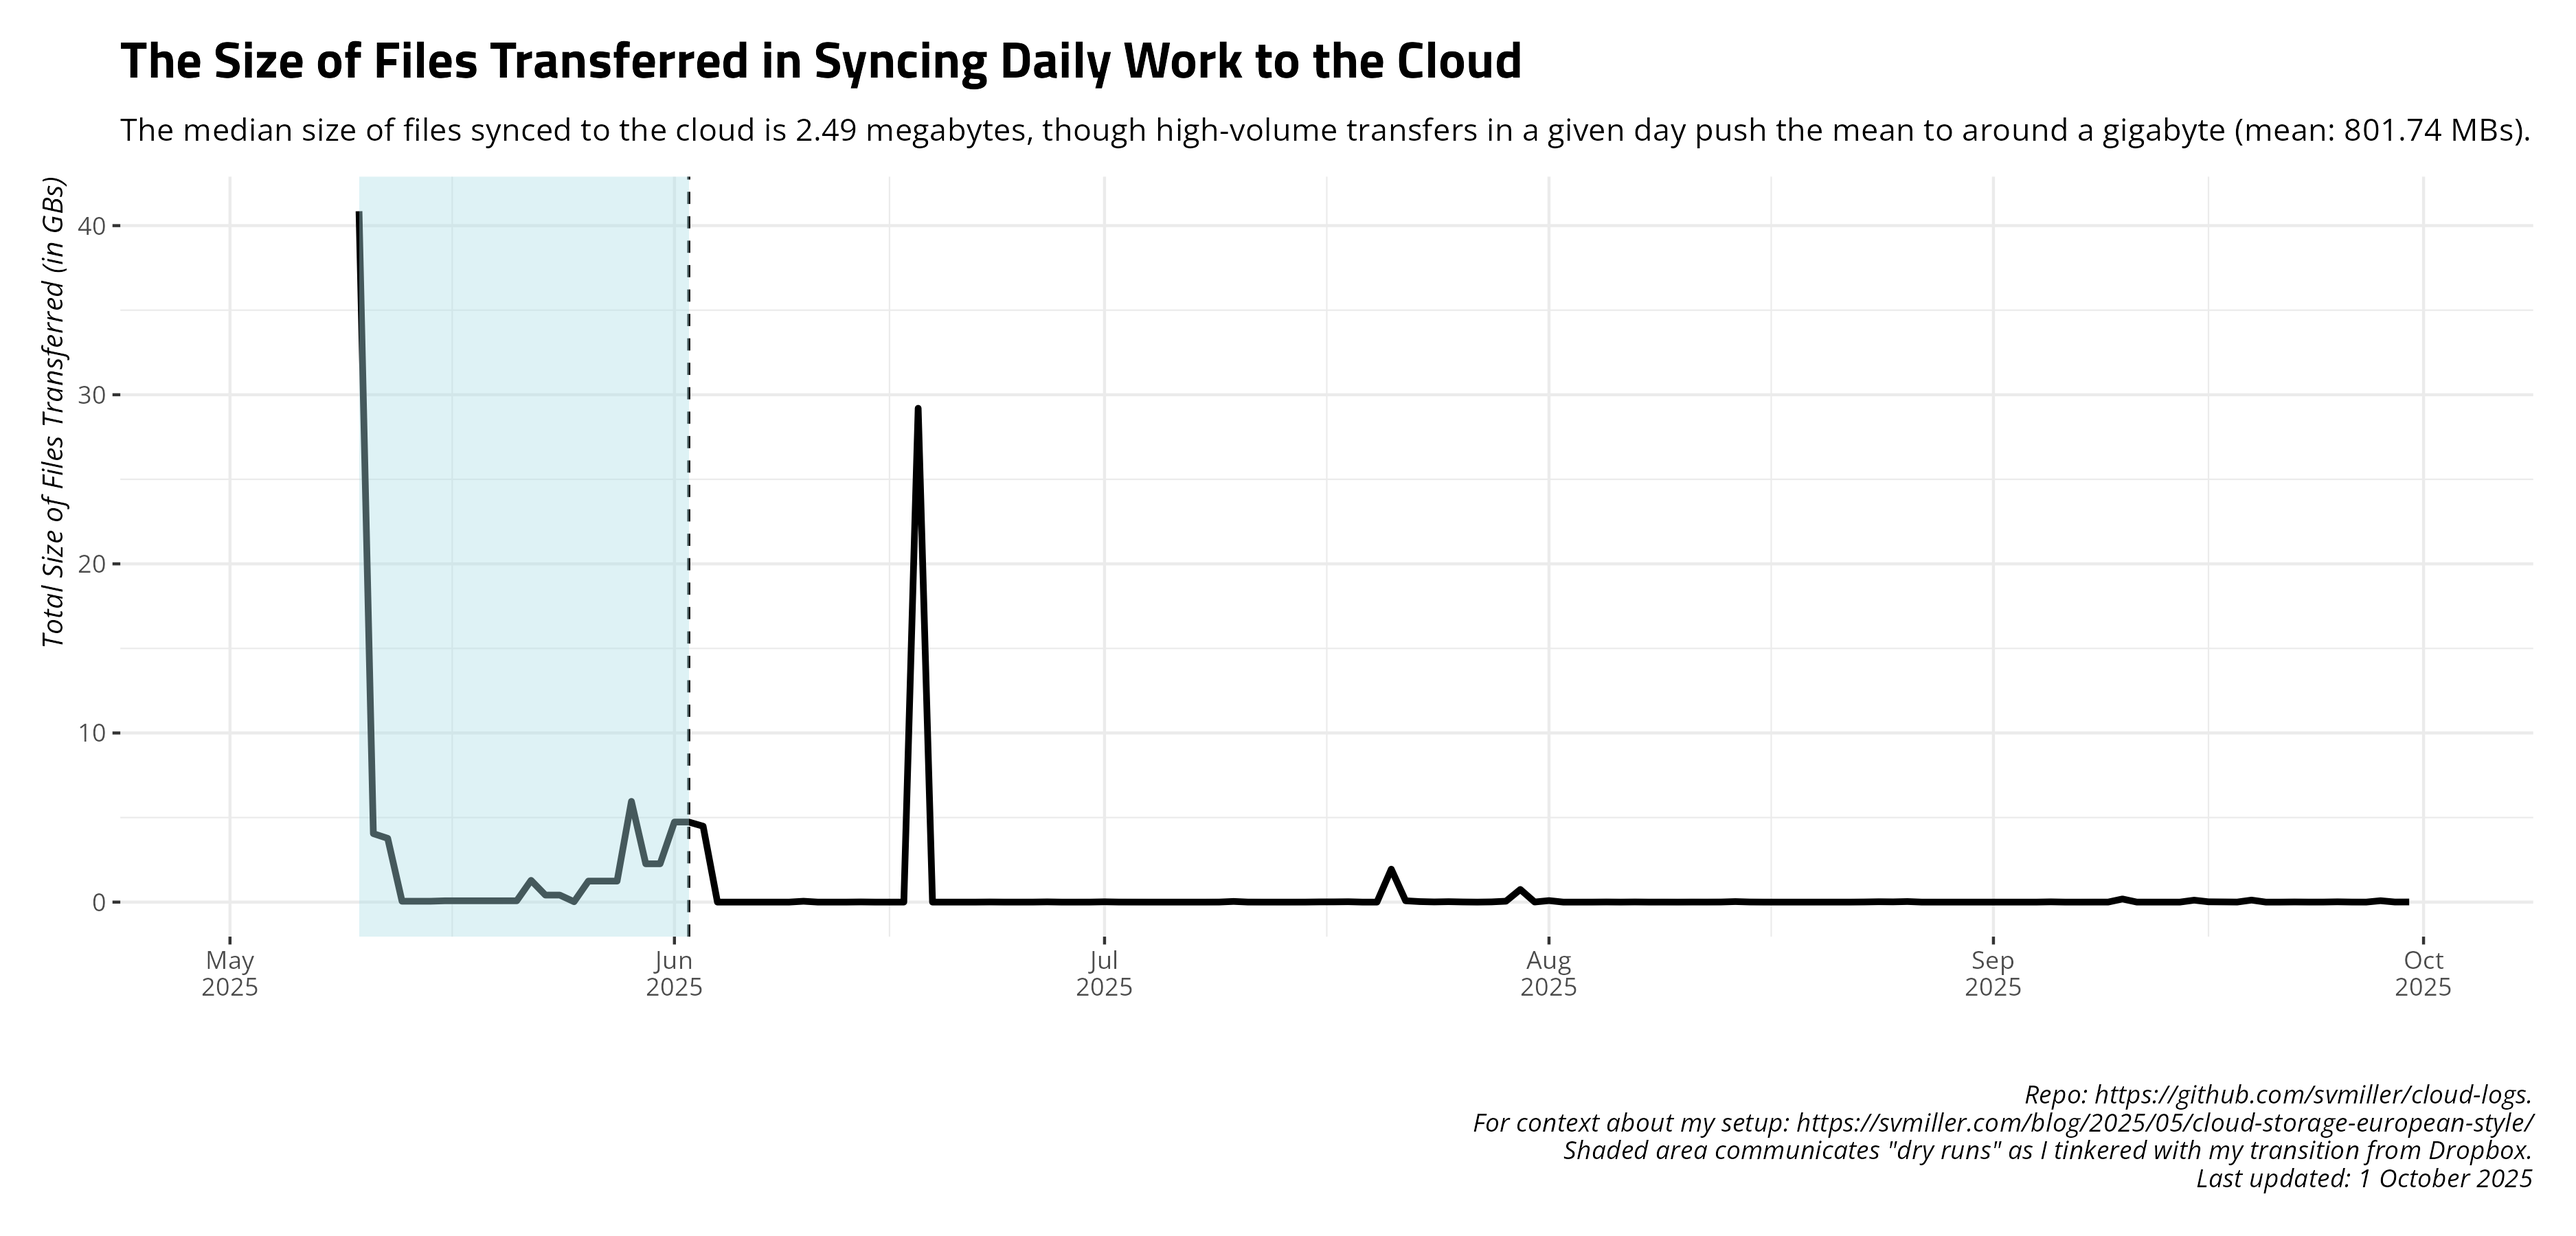
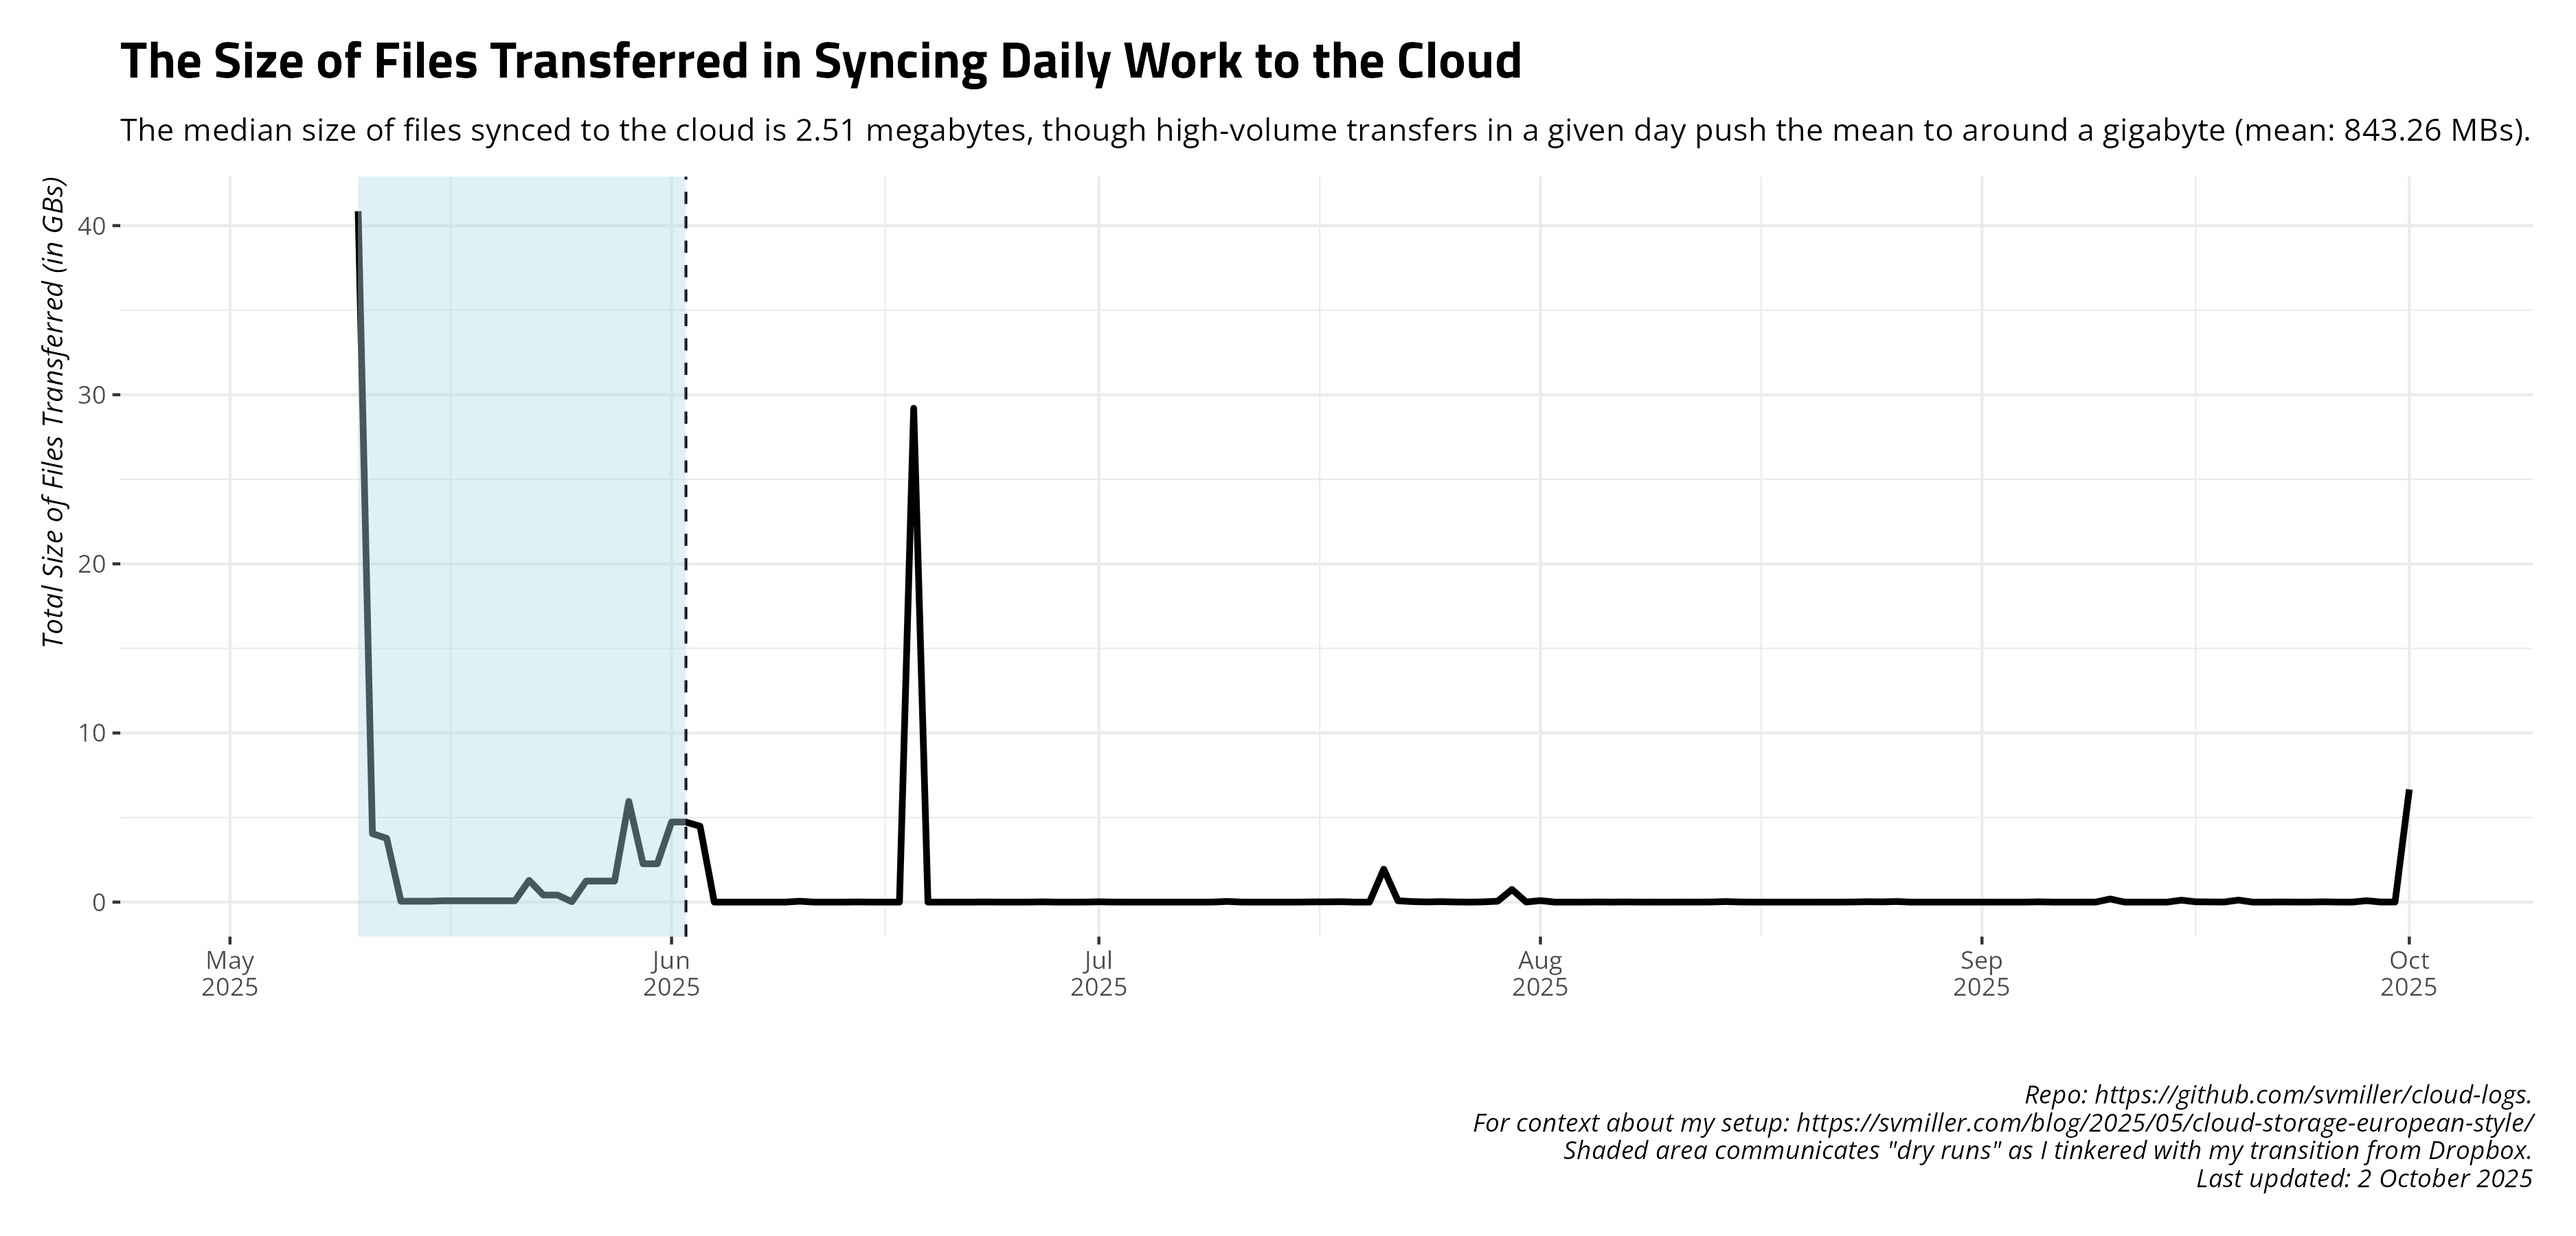
Date: 2025-10-02 09:00:14. Hi mom!

diff --git a/README.md b/README.md
@@ -27,17 +27,17 @@ and uploads to Github.
     #> # A tibble: 14 × 4
     #>    date       ftransfer stransfer   elapsed
     #>    <date>         <dbl> <chr>       <chr>  
-    #>  1 2025-09-17       384 10.375 MiB  4m40.4s
-    #>  2 2025-09-18       156 2.882 MiB   4m45.7s
-    #>  3 2025-09-19       145 121.392 MiB 4m37.2s
-    #>  4 2025-09-20        10 13.771 KiB  4m44.8s
-    #>  5 2025-09-21        27 314.652 KiB 5m1.5s 
-    #>  6 2025-09-22         9 8.336 MiB   5m26.1s
-    #>  7 2025-09-23       113 1.845 MiB   4m10.1s
-    #>  8 2025-09-24        68 3.056 MiB   5m9.6s 
-    #>  9 2025-09-25       335 16.829 MiB  5m20.3s
-    #> 10 2025-09-26       107 2.871 MiB   5m2.8s 
-    #> 11 2025-09-27        61 1.133 MiB   5m5.0s 
-    #> 12 2025-09-28        16 83.616 MiB  3m51.3s
-    #> 13 2025-09-29        94 5.148 MiB   5m10.7s
-    #> 14 2025-09-30       145 7.854 MiB   5m18.4s
+    #>  1 2025-09-18       156 2.882 MiB   4m45.7s
+    #>  2 2025-09-19       145 121.392 MiB 4m37.2s
+    #>  3 2025-09-20        10 13.771 KiB  4m44.8s
+    #>  4 2025-09-21        27 314.652 KiB 5m1.5s 
+    #>  5 2025-09-22         9 8.336 MiB   5m26.1s
+    #>  6 2025-09-23       113 1.845 MiB   4m10.1s
+    #>  7 2025-09-24        68 3.056 MiB   5m9.6s 
+    #>  8 2025-09-25       335 16.829 MiB  5m20.3s
+    #>  9 2025-09-26       107 2.871 MiB   5m2.8s 
+    #> 10 2025-09-27        61 1.133 MiB   5m5.0s 
+    #> 11 2025-09-28        16 83.616 MiB  3m51.3s
+    #> 12 2025-09-29        94 5.148 MiB   5m10.7s
+    #> 13 2025-09-30       145 7.854 MiB   5m18.4s
+    #> 14 2025-10-01      2008 6.663 GiB   8m36.5s
